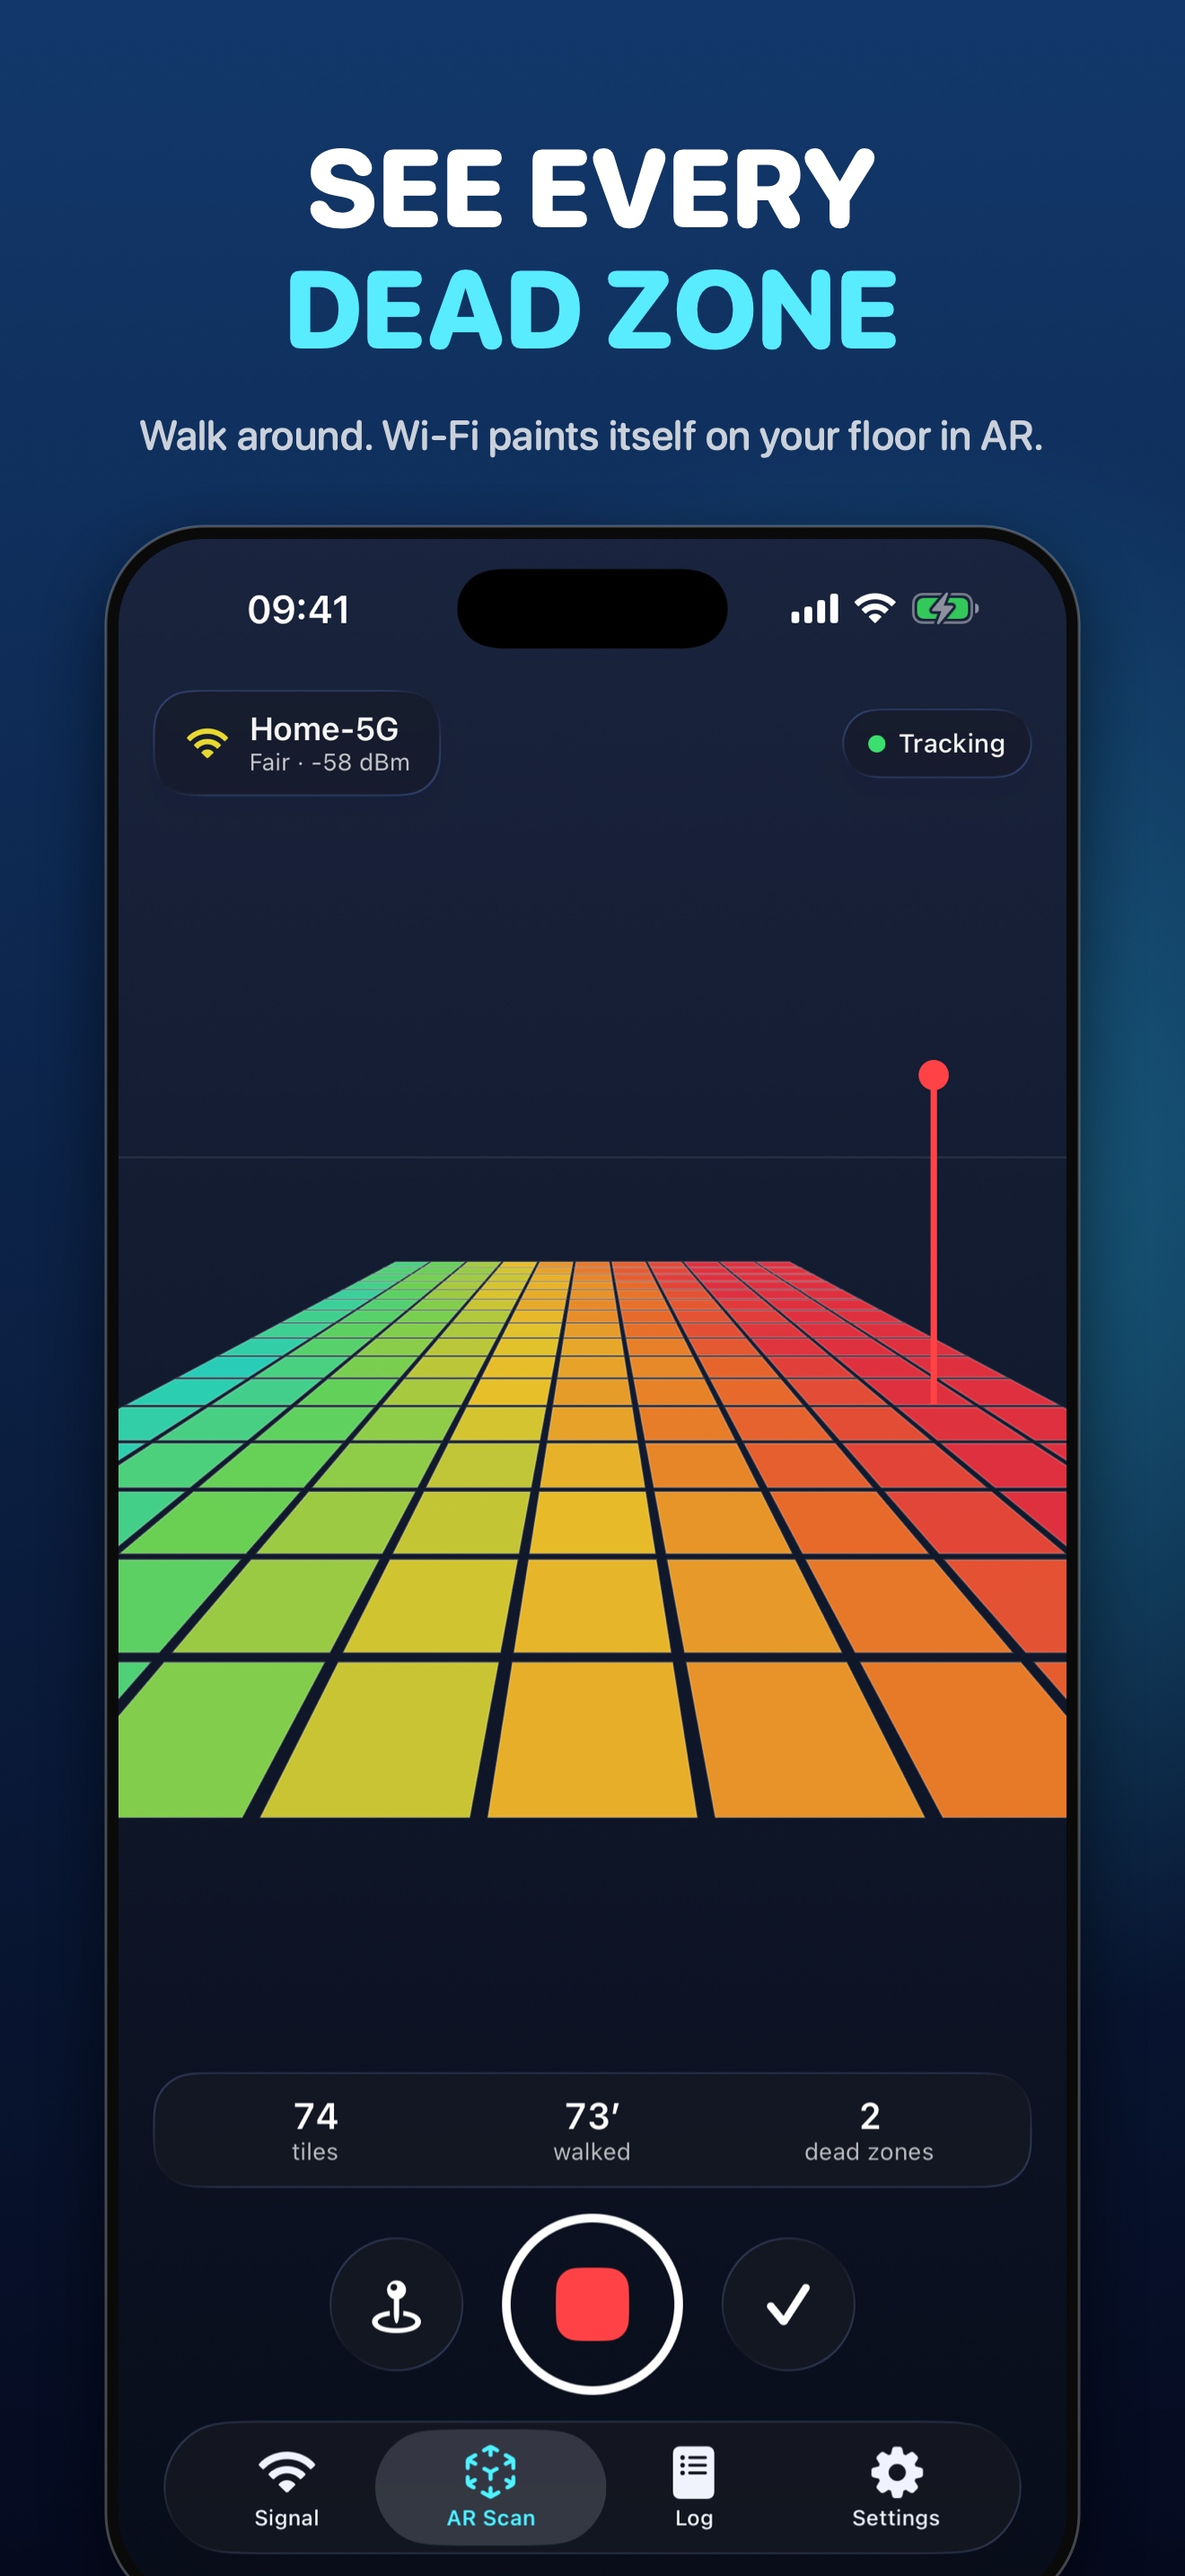
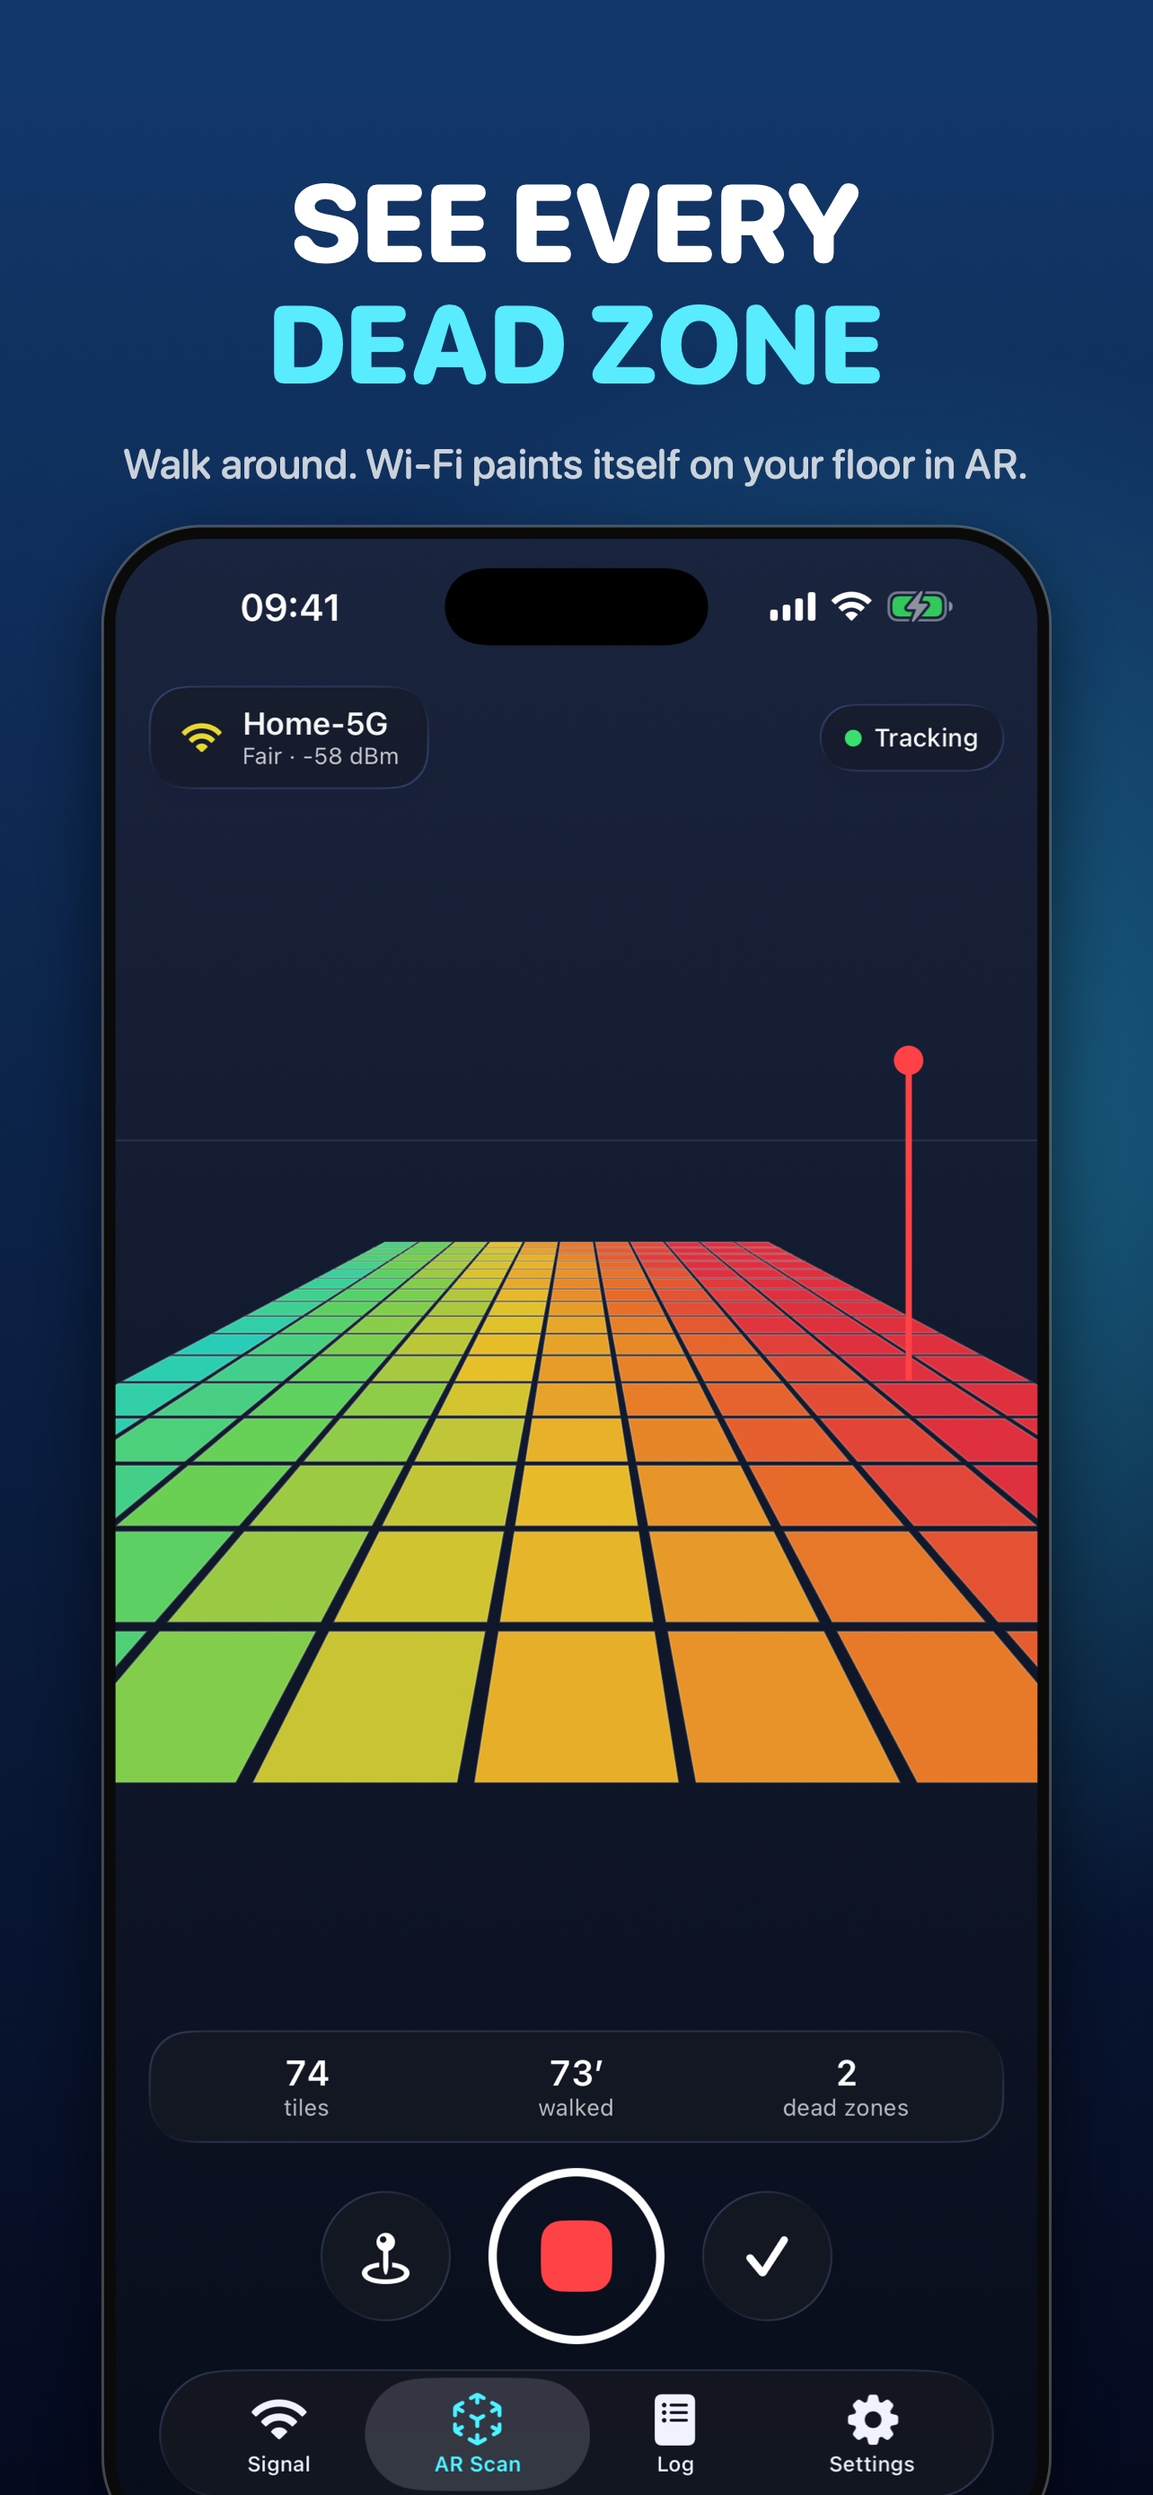
Add App Store marketing assets, metadata, export options
Claude-Session: https://claude.ai/code/session_0128QwoURSj7FBXQLwUMj93T

diff --git a/Tools/compose.swift b/Tools/compose.swift
@@ -1,6 +1,6 @@
 import AppKit
 
-let W = 1320, H = 2868
+let W = 1284, H = 2778
 let raw = CommandLine.arguments[1], out = CommandLine.arguments[2]
 struct Slide { let file: String; let line1: String; let line2: String; let sub: String; let c1: NSColor; let c2: NSColor }
 func col(_ r: CGFloat,_ g: CGFloat,_ b: CGFloat) -> NSColor { NSColor(srgbRed: r, green: g, blue: b, alpha: 1) }
@@ -19,8 +19,9 @@ func font(_ size: CGFloat, _ w: NSFont.Weight) -> NSFont {
 func drawText(_ s: String, _ f: NSFont, _ color: NSColor, centerY: CGFloat, ctx: CGContext) {
   let para = NSMutableParagraphStyle(); para.alignment = .center
   let a = NSAttributedString(string: s, attributes: [.font: f, .foregroundColor: color, .paragraphStyle: para])
-  let size = a.size()
-  a.draw(in: CGRect(x: 60, y: centerY - size.height / 2, width: CGFloat(W) - 120, height: size.height * 1.3))
+  let w = CGFloat(W) - 140
+  let r = a.boundingRect(with: CGSize(width: w, height: 1000), options: [.usesLineFragmentOrigin])
+  a.draw(with: CGRect(x: 70, y: centerY - r.height / 2, width: w, height: r.height + 4), options: [.usesLineFragmentOrigin])
 }
 for (i, s) in slides.enumerated() {
   guard let shot = NSImage(contentsOfFile: "\(raw)/\(s.file).png") else { print("missing", s.file); continue }
@@ -37,11 +38,11 @@ for (i, s) in slides.enumerated() {
 
   drawText(s.line1, font(122, .heavy), .white, centerY: CGFloat(H) - 250, ctx: ctx)
   drawText(s.line2, font(122, .heavy), NSColor(srgbRed: 0.35, green: 0.92, blue: 1, alpha: 1), centerY: CGFloat(H) - 385, ctx: ctx)
-  drawText(s.sub, font(46, .medium), NSColor.white.withAlphaComponent(0.78), centerY: CGFloat(H) - 500, ctx: ctx)
+  drawText(s.sub, font(46, .medium), NSColor.white.withAlphaComponent(0.78), centerY: CGFloat(H) - 520, ctx: ctx)
 
   // device frame
   let scale: CGFloat = 0.80
-  let pw = CGFloat(W) * scale, ph = CGFloat(H) * scale
+  let pw = CGFloat(W) * scale, ph = pw * 2868 / 1320
   let px = (CGFloat(W) - pw) / 2, py = CGFloat(H) - 600 - ph
   let rect = CGRect(x: px, y: py, width: pw, height: ph)
   ctx.saveGState()

diff --git a/Marketing/metadata.md b/Marketing/metadata.md
@@ -1,0 +1,9 @@
+# App Store metadata (en-US)
+Name (27/30): WiFi Heatmap AR: Signal Map
+Subtitle (29/30): Dead Zone Finder & Speed Test
+Keywords: analyzer,router,strength,mesh,extender,booster,internet,network,scanner,meter,coverage,lag,5g,dbm
+Promo: See your Wi-Fi in AR. Walk around, watch coloured tiles reveal every dead zone on your floor, then get a clear plan to fix it. Free to try, no account needed.
+Support URL: https://marco-p-keller.github.io/WiFiHeatmap/
+Privacy URL: https://marco-p-keller.github.io/WiFiHeatmap/privacy.html
+Category: Utilities (primary), Productivity (secondary)
+Price: Free, IAP: Pro Yearly $29.99 (3-day trial), Pro Weekly $4.99 (3-day trial), Pro Lifetime $49.99
